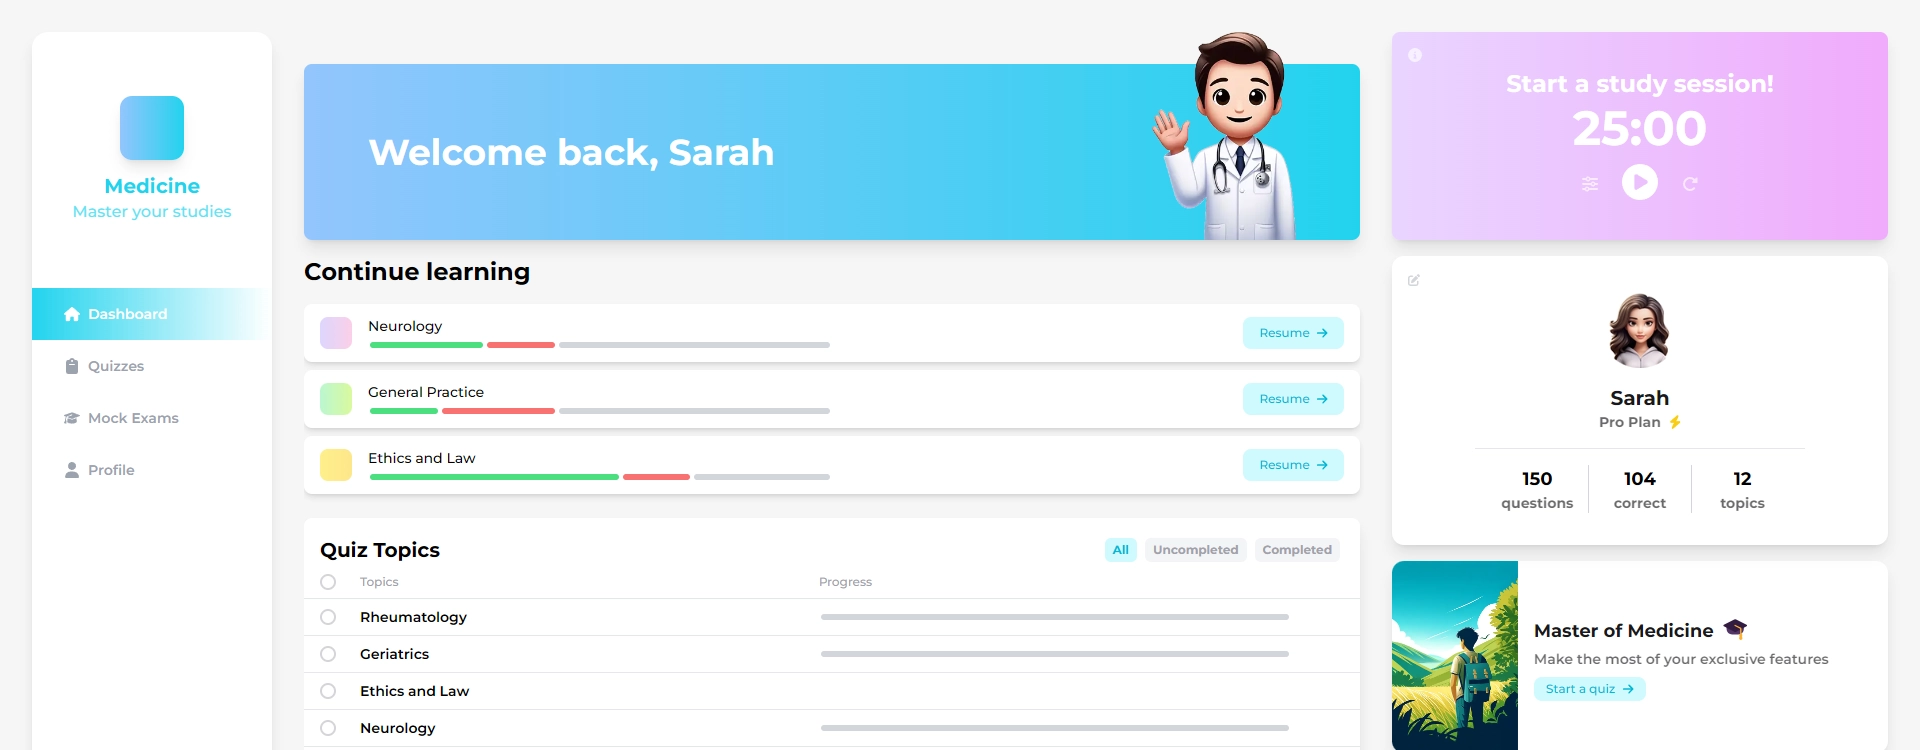
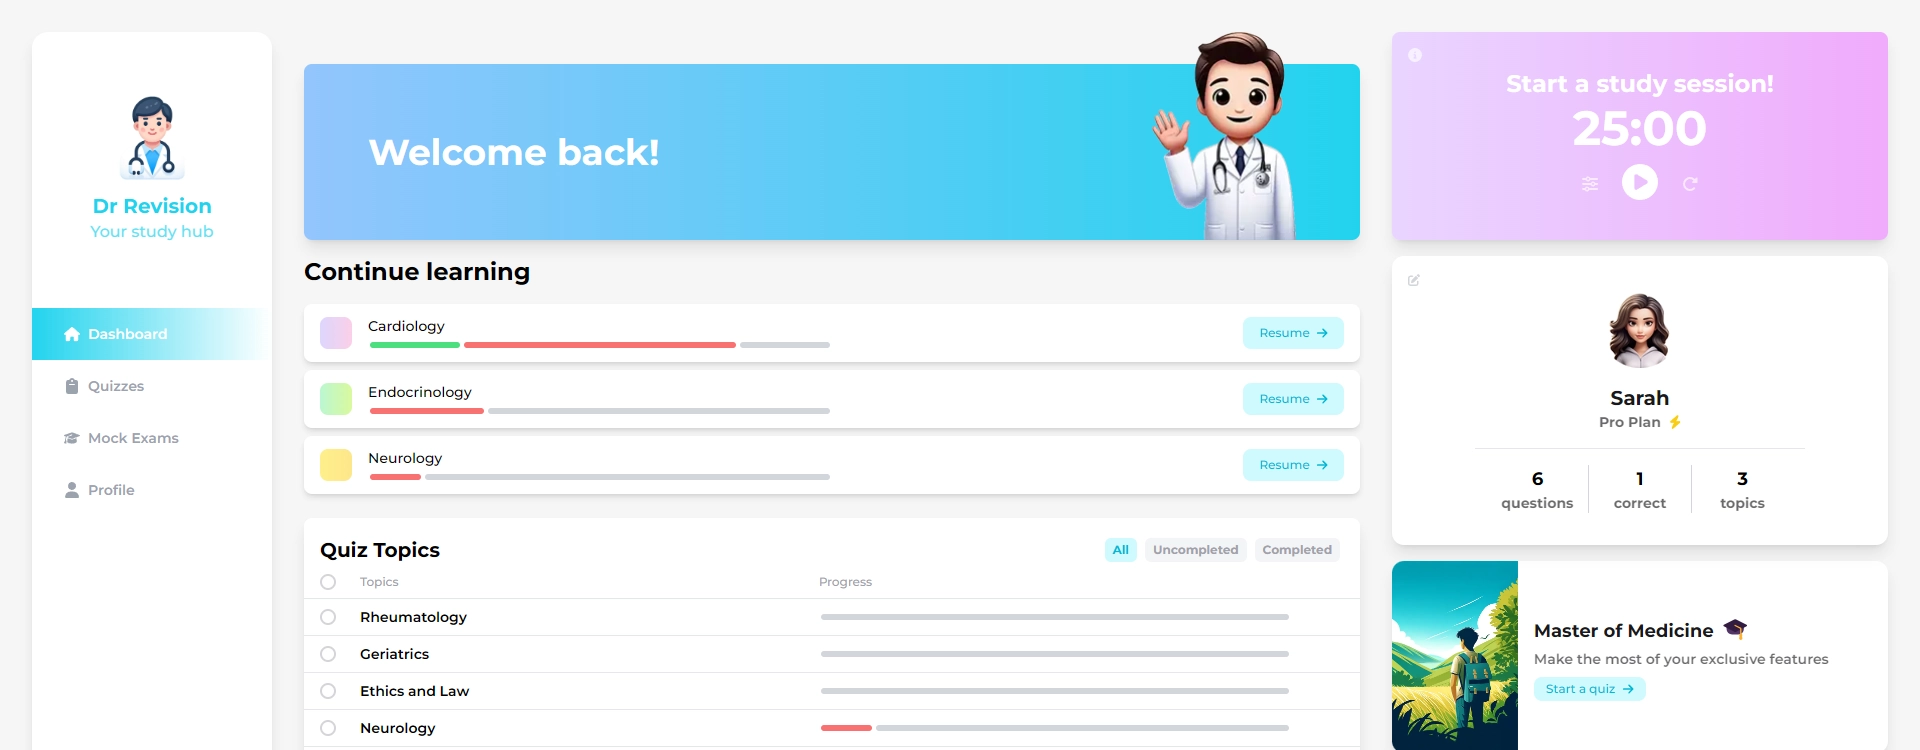
update

diff --git a/src/components/dashboard/Welcome.js b/src/components/dashboard/Welcome.js
@@ -5,7 +5,7 @@ import { useAuth } from "../../AuthContext";
 const Welcome = () => {
   const { name } = useAuth();
 
-  let welcomeMessage = "Welcome to Medicine";
+  let welcomeMessage = "Welcome to Dr Revision";
   if (name != null) {
     welcomeMessage = "Welcome back, " + name;
   }
